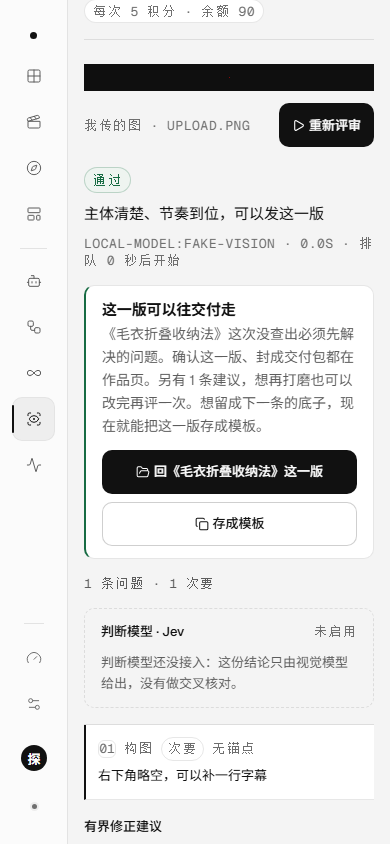
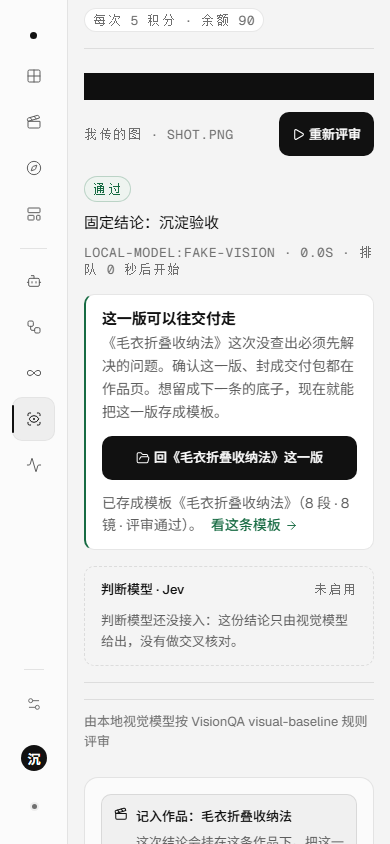
docs(r253): 沉淀之后一键打开的设计、证据与边界（v0.9.236）

diff --git a/docs/review-template-open-2026-11-19.md b/docs/review-template-open-2026-11-19.md
@@ -1,0 +1,61 @@
+# 沉淀完能直接打开它，模板库卡片自己写评审结论（r253 / v0.9.236）
+
+日期：2026-11-19。上一轮（r252）把「评审通过 → 存成模板」接上了，但接完之后还断两截：
+
+1. 存完只留一句「在模板库里能查到」，人还要自己翻到模板库、找到那一条；
+2. 模板库里这条新模板的卡片和一条没评过的模板长得一样，「评审通过」只在点开抽屉后才看得到。
+
+这一轮把这两截接上，不改数据契约：模板原本就带着 `review { verdict, at, issueCount }` 快照（r252 落的），
+卡片只是把已有的字段显示出来。
+
+## 改了什么
+
+| # | 位置 | 以前 | 现在 |
+| --- | --- | --- | --- |
+| 1 | 评审结果页存完那一行 | 「已存成模板《X》（3 段 · 2 镜 · 评审通过），在模板库里能查到。」 | 同一句去掉「在模板库里能查到」，后面跟一个 **看这条模板 →**，点了就是 `#/templates/<新模板 id>` |
+| 2 | 模板库卡片 | 只有「N 段脚本 · N 个分镜 · N 条作品在用」 | 多一格 **评审通过**（绿字），没有评审记录的模板不多这一格 |
+| 3 | 那一行小字字号 | 13px | 14px，跟结论正文一致（用户提过「字有点小」） |
+
+「看这条模板」用的是模板库已有的抽屉地址（`#/templates/<id>`），不新开页面、不新加接口；
+新模板 id 直接取 `POST /api/projects/:id/template` 回来那份 `template.id`，不靠再查一次列表猜。
+
+## 口径
+
+| 问题 | 口径 |
+| --- | --- |
+| 什么时候给「看这条模板」 | 只有存成功（status=done）且拿到 id 时；存失败的行只有原话，不给链接 |
+| 存完还留「存成模板」按钮吗 | 不留（r252 起就不留）：同一版重复存只会多出一条一样的模板 |
+| 卡片上「评审通过」从哪来 | 模板上的 `review.verdict` 决定文案与颜色：pass 绿、needs_review 黄、fail 红；没有 `review` 就不显示 |
+| 历史评审记录里有这个出口吗 | 没有：历史记录只读，那一条本来就没有「刚存完」这回事 |
+| 点「看这条模板」会打断当前评审吗 | 不会丢数据：评审结论已经落库，地址换到模板抽屉，后退回得去 |
+
+## 证据（本机临时实例 + 无头 Edge 真鼠标 + 本机假视觉上游）
+
+同一份 `dist`、副本 `DATA_DIR`、探针账号，视觉模型指向本机假上游（固定回 pass）。真实上游调用 0 次。
+
+| 项 | 结果 |
+| --- | --- |
+| 1440 结论块 | 「…想留成下一条的底子，现在就能把这一版存成模板。」+ 回《毛衣折叠收纳法》这一版 · 存成模板 |
+| 真点「存成模板」 | 「已存成模板《毛衣折叠收纳法》（8 段 · 8 镜 · 评审通过）。看这条模板」；按钮消失 |
+| 点「看这条模板」 | 地址变成 `#/templates/tpl_386d97a8`，抽屉打开 |
+| 新模板抽屉 | 「来自作品《毛衣折叠收纳法》· 还没开工作流 · 评审通过 · 8 段 · 8 镜 · 模板 tpl_386d97a8 · 改编自 tpl_r253probe」 |
+| 模板库卡片（1440） | 「8 段脚本 8 个分镜 评审通过」，颜色 rgb(23, 107, 67)（= --pass） |
+| 模板库卡片（390） | 同一格换行到下一行，宽 56px；整页 innerWidth 390 = scrollWidth 390，溢出 0 |
+| 390 存完那一行 | 那一行 255×45，「看这条模板」87×22 跟在句号后面同一段里，不出屏 |
+| 上游调用 | 假视觉上游 4 次（1440/390 各两步），真实上游 0 次、0 费用 |
+
+## 截图
+
+- `docs/review-template-open-1440.png`：存完那一行 + 看这条模板
+- `docs/template-open-from-review-1440.png`：真点之后落到新模板抽屉
+- `docs/template-card-1440.png`、`docs/template-card-390.png`：卡片上的「评审通过」（单卡裁剪）
+- `docs/template-card-review-1440.png`、`docs/template-card-review-390.png`：模板库整屏
+- `docs/review-template-390.png`：390 下那一行与链接
+
+## 边界
+
+- 只改界面与样式：服务端零改动（模板的 `review` 快照 r252 就在，卡片只是显示它）。
+- 卡片上的结论是**存下来那一刻**的快照，之后作品重评不会改它；要更新得再存一条。
+- 「看这条模板」直接换地址，不会把评审页留在后台（刷新、后退按地址重建，评审结论已在库里）。
+- 没有「在这条模板上再评一次」的入口：要评得先「用这条作品」把它变回一条作品。
+- 探针只验了 pass 一种结论；needs_review / fail 的颜色只在单测里覆盖（模板接口只在有评审时落快照）。

diff --git a/README.md b/README.md
@@ -1721,3 +1721,40 @@ lint 0 error / 26 warning（627 个文件）、tsc -b 干净、密钥扫描 973 
 
 生产 0.9.235（发布 20261119-005335-r252tpl，入口 index-BoAzDWNW.js 747,656 B、样式表 index-DaBZYrwd.css 359,459 B（核到 .rv-next-note）；health ok templates 26、6 个服务 active、磁盘 73%；未登录 /api/projects 与 POST /api/review 均 401；回滚 --to 1 回 0.9.234（20261119-003544-r251review））。
 门禁 1685 / 1685 测试（新增 7 条）、lint 0 error / 26 warning、tsc -b 干净、密钥扫描 985 个文件无命中。
+
+## 三百零六、存完就能打开它：模板库卡片自己写「评审通过」（r253 / v0.9.236）
+
+上一轮把「评通过 → 存成模板」接上了，但接完还断两截：存下来只留一句「在模板库里能查到」，
+人要自己翻去模板库找；而模板库里这条新模板的卡片，和一条没评过的模板长得一模一样，
+「评审通过」只有点开抽屉才看得到。
+
+| # | 位置 | 以前 | 现在 |
+| --- | --- | --- | --- |
+| 1 | 评审结果页存完那一行 | 「…（3 段 · 2 镜 · 评审通过），在模板库里能查到。」 | 后面跟一个 **看这条模板 →**，点了直接落到 `#/templates/<新模板 id>` |
+| 2 | 模板库卡片 | 「8 段脚本 · 8 个分镜 · 1 条作品在用」 | 多一格 **评审通过**（绿字）；没有评审记录的模板不多这一格 |
+| 3 | 那一行小字 | 13px | 14px，跟结论正文一致 |
+
+服务端零改动：模板上的 `review { verdict, at, issueCount }` 快照是 r252 落的，卡片只是把它显示出来；
+新模板 id 取自 `POST /api/projects/:id/template` 回来的 `template.id`，不再查一遍列表去猜。
+出口只在存成功时给，存失败的行只有原话；存完仍不留「存成模板」按钮（同一版重复存只会多一条一样的模板）；
+历史记录里也没有这个出口（只读）。
+
+![1440：存完那一行多出「看这条模板」](docs/review-template-open-1440.png)
+
+![1440：真点之后落到新模板的抽屉，写着来自作品 · 评审通过](docs/template-open-from-review-1440.png)
+
+![模板库卡片自己写着评审通过（单卡裁剪）](docs/template-card-1440.png)
+
+![390：卡片上的评审通过换到下一行，不挤出屏幕](docs/template-card-390.png)
+
+验收：本机临时实例（副本 `DATA_DIR` + 探针账号 + 一条带脚本与分镜的模板 + 本机假视觉上游，真实上游 0 次），
+无头 Edge 真鼠标 1440 上传 → 开始评审 → 存成模板 → 点「看这条模板」→ 地址 `#/templates/tpl_386d97a8`、
+抽屉写「来自作品《毛衣折叠收纳法》 · 还没开工作流 · 评审通过 · 8 段 · 8 镜」；
+模板库卡片「8 段脚本 8 个分镜 评审通过」，颜色 rgb(23, 107, 67)（= --pass）；
+390 重载：卡片那格宽 56px 换行、整页 innerWidth 390 = scrollWidth 390、存完那一行 255×45、「看这条模板」87×22。
+门禁 1685 / 1685 测试（本轮只改界面与样式，没有新增用例）、lint 0 error / 26 warning、tsc -b 干净。
+
+边界：卡片上的结论是存下来那一刻的快照，之后重评不改它；「看这条模板」直接换地址（评审结论已落库），
+没有「在这条模板上再评一次」——要评得先「用这条作品」把它变回一条作品；探针只验了 pass 一种结论。
+文档见 docs/review-template-open-2026-11-19.md。
+
